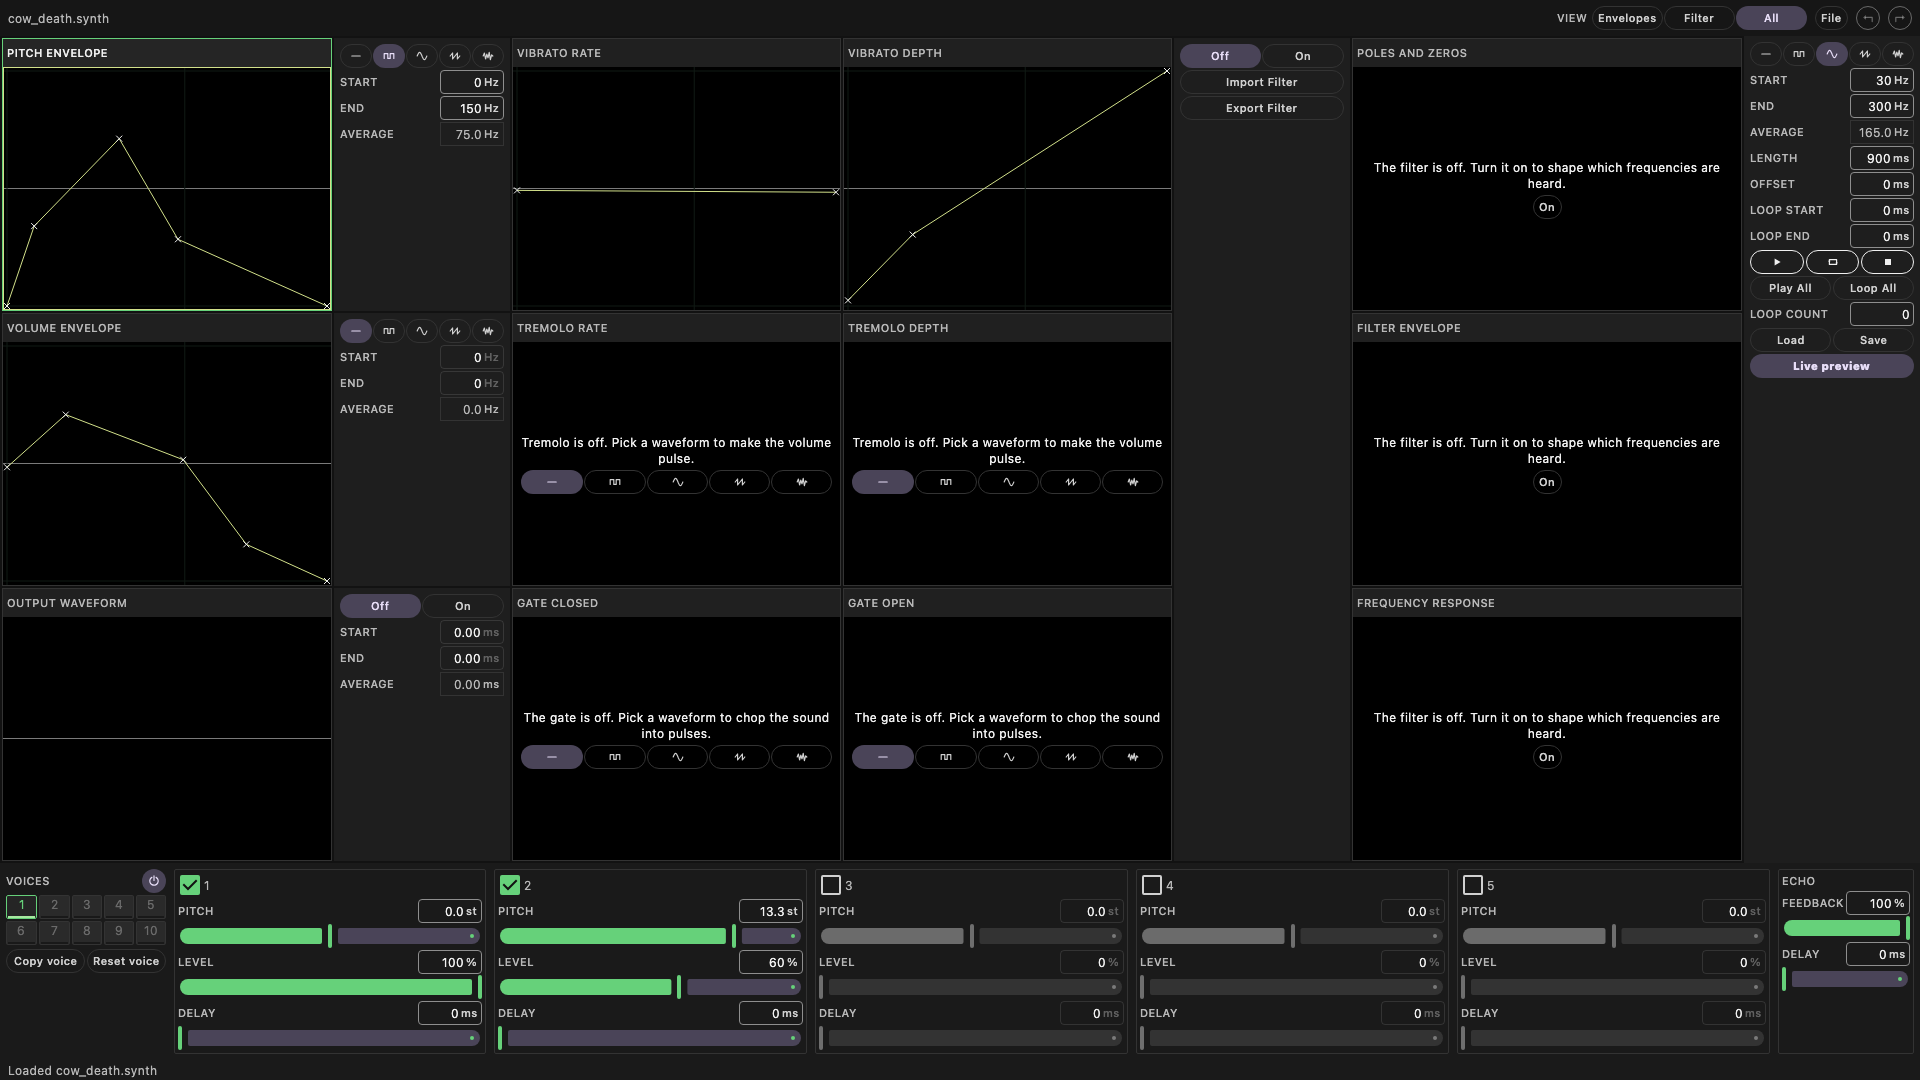
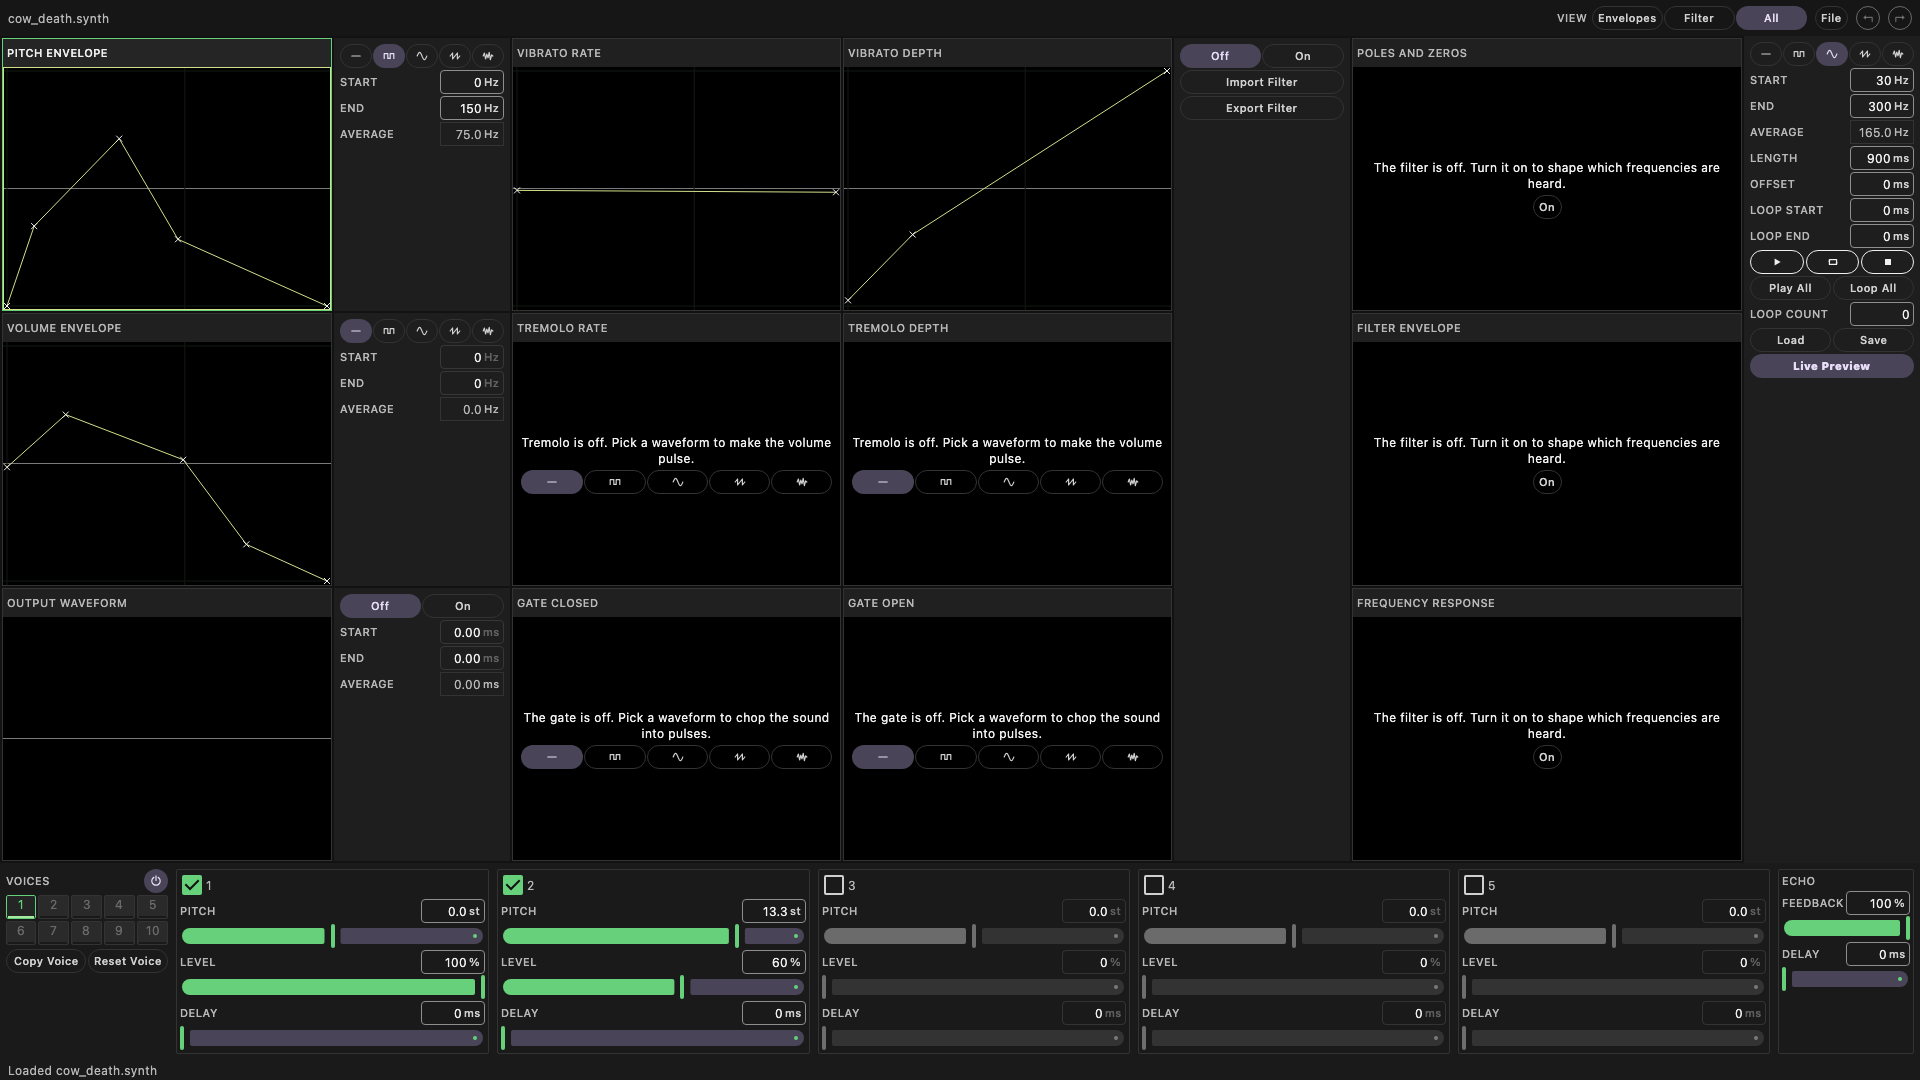
fix(ui): use Title Case for English button and menu labels

diff --git a/sharedUI/src/commonMain/kotlin/io/github/xsyetopz/jagfx/ui/i18n/StringsEn.kt b/sharedUI/src/commonMain/kotlin/io/github/xsyetopz/jagfx/ui/i18n/StringsEn.kt
@@ -12,15 +12,15 @@ internal val stringsEn: Map<UiString, String> =
         UiString.PlayAll to "Play All",
         UiString.LoopAll to "Loop All",
         UiString.LoadLabel to "Load",
-        UiString.LivePreview to "Live preview",
+        UiString.LivePreview to "Live Preview",
         UiString.TooltipPlayTone to "Play the selected tone once",
         UiString.TooltipPlayAll to "Play every enabled tone of the patch",
         UiString.TooltipLoopTone to "Loop the selected tone",
         UiString.TooltipLoopAll to "Loop every enabled tone of the patch",
         UiString.TooltipLivePreview to "Redraw the output wave while you drag a point",
         UiString.VoicesLabel to "Voices",
-        UiString.CopyVoiceLabel to "Copy voice",
-        UiString.ResetVoiceLabel to "Reset voice",
+        UiString.CopyVoiceLabel to "Copy Voice",
+        UiString.ResetVoiceLabel to "Reset Voice",
         UiString.PitchLabel to "Pitch",
         UiString.LevelLabel to "Level",
         UiString.DelayLabel to "Delay",
@@ -74,7 +74,7 @@ internal val stringsEn: Map<UiString, String> =
             "The filter is off. Turn it on to shape which frequencies are heard.",
         UiString.ToneOffTitle to "Voice {0} is off",
         UiString.ToneOffHint to "Turn it on to edit its pitch, volume, and filter.",
-        UiString.TurnOn to "Turn on",
+        UiString.TurnOn to "Turn On",
         UiString.NoFileTitle to "No file open",
         UiString.NoFileHint to "Open a .synth file to edit it, or start a new patch.",
         UiString.OpenLabel to "Open",
@@ -111,7 +111,7 @@ internal val stringsEn: Map<UiString, String> =
         UiString.StatusRejectedMissingEnvelope to "Pick a waveform to create this envelope first",
         UiString.StatusRejectedMissingFilter to "Add filter poles first",
         UiString.StatusRejectedNoBinaryEncoding to "This edit has no .synth encoding ({0})",
-        UiString.ToolbarSaveAs to "Save as",
+        UiString.ToolbarSaveAs to "Save As",
         UiString.ToolbarUndo to "Undo",
         UiString.ToolbarRedo to "Redo",
         UiString.VoiceNumber to "Voice {0}",
@@ -139,11 +139,11 @@ internal val stringsEn: Map<UiString, String> =
         UiString.MenuResetVoice to "Reset Voice",
         UiString.MenuView to "View",
         UiString.MenuTheme to "Theme",
-        UiString.MenuTextSize to "Text size",
+        UiString.MenuTextSize to "Text Size",
         UiString.ThemeSystem to "System",
         UiString.ThemeClassic to "Classic",
         UiString.ThemeLight to "Light",
-        UiString.ThemeHighContrast to "High contrast",
+        UiString.ThemeHighContrast to "High Contrast",
         UiString.PanelOnLeft to "Panel on Left",
         UiString.PanelOnRight to "Panel on Right",
         UiString.StatusExported to "Exported {0}",
@@ -151,9 +151,9 @@ internal val stringsEn: Map<UiString, String> =
         UiString.FilterOff to "Filter off",
         UiString.ImportFilter to "Import Filter",
         UiString.ExportFilter to "Export Filter",
-        UiString.ImportTone to "Import tone",
-        UiString.ExportTone to "Export tone",
-        UiString.ToolbarOpenSample to "Open sample",
+        UiString.ImportTone to "Import Tone",
+        UiString.ExportTone to "Export Tone",
+        UiString.ToolbarOpenSample to "Open Sample",
         UiString.SampleClose to "Close",
         UiString.SampleCountLabel to "Samples",
         UiString.SampleRateLabel to "Rate",
@@ -175,13 +175,13 @@ internal val stringsEn: Map<UiString, String> =
         UiString.CellDescBode to "How much the filter boosts or cuts each frequency.",
         UiString.TooltipZoomPreset to "Zoom to {0}x",
         UiString.TooltipFitView to "Fit: show the whole voice",
-        UiString.TooltipTimeView to "Time view: Linked or This cell",
+        UiString.TooltipTimeView to "Time view: Linked or This Cell",
         UiString.TooltipControlsPanel to "Show or hide the controls of this cell",
         UiString.TooltipAxisValues to "Show or hide the axis values of this cell",
         UiString.TooltipGridLines to "Show or hide the grid lines of this cell",
         UiString.TooltipPointReadouts to "Show or hide the time and value of each point",
         UiString.TimeViewLinked to "Linked",
-        UiString.TimeViewThisCell to "This cell",
+        UiString.TimeViewThisCell to "This Cell",
         UiString.TimeViewLabel to "Time view",
         UiString.PointColumnTime to "Time (ms)",
         UiString.PointColumnValue to "Value ({0})",
@@ -197,7 +197,7 @@ internal val stringsEn: Map<UiString, String> =
         UiString.PlotStateStart to "start",
         UiString.PlotStateEnd to "end",
         UiString.FeedbackLabel to "Feedback",
-        UiString.RackViewMenu to "Rack view",
+        UiString.RackViewMenu to "Rack View",
         UiString.ValuesLabel to "Values",
         UiString.GridLabel to "Grid",
         UiString.PointsLabel to "Points",

diff --git a/README.md b/README.md
@@ -59,11 +59,11 @@ flowchart TD
 
 The editor follows the layout of the original JagFx tool:
 
-- Title bar: the file name, the View switch, the File menu (Open, New, Save As, Import and Export tone, theme, text size, panel side), Undo, and Redo.
+- Title bar: the file name, the View switch, the File menu (Open, New, Save As, Import Tone, Export Tone, Theme, Text Size, panel side), Undo, and Redo.
 - Rack: three rows (Pitch, Volume, Output) across the envelope, rate, and depth cells. A strip beside each envelope cell holds the module's waveform, Start, End, and Average, or the gate's Off/On and closed-time Start, End, and Average.
-- Cell headers: `1x 2x 4x` zoom presets, Values, Grid, and Points toggles, Fit fits the view, the time view menu (Linked or This cell) links the cell's time view to the other cells or gives it its own, and Controls opens the cell's controls panel with the exact point table.
-- Voice strip: the oscillator, Length, Offset, Loop start, Loop end, Play, Loop, Stop, Play All, Loop All, Loop count, Load, Save, and Live preview. The File menu moves it to the left or right edge.
-- Bottom bar: Voices 1 to 10 with Copy voice and Reset voice, five harmonic boxes (Pitch, Level, Delay), and Echo (Feedback, Delay).
+- Cell headers: `1x 2x 4x` zoom presets, Values, Grid, and Points toggles, Fit fits the view, the time view menu (Linked or This Cell) links the cell's time view to the other cells or gives it its own, and Controls opens the cell's controls panel with the exact point table.
+- Voice strip: the oscillator, Length, Offset, Loop start, Loop end, Play, Loop, Stop, Play All, Loop All, Loop count, Load, Save, and Live Preview. The File menu moves it to the left or right edge.
+- Bottom bar: Voices 1 to 10 with Copy Voice and Reset Voice, five harmonic boxes (Pitch, Level, Delay), and Echo (Feedback, Delay).
 - View switch: Envelopes shows the rack, Filter shows the filter column (Poles and zeros, Filter envelope, Frequency response), and All shows the two side by side.
 
 ![The editor in Both mode at 1920 by 1080](docs/images/editor-both-1920x1080.png)
